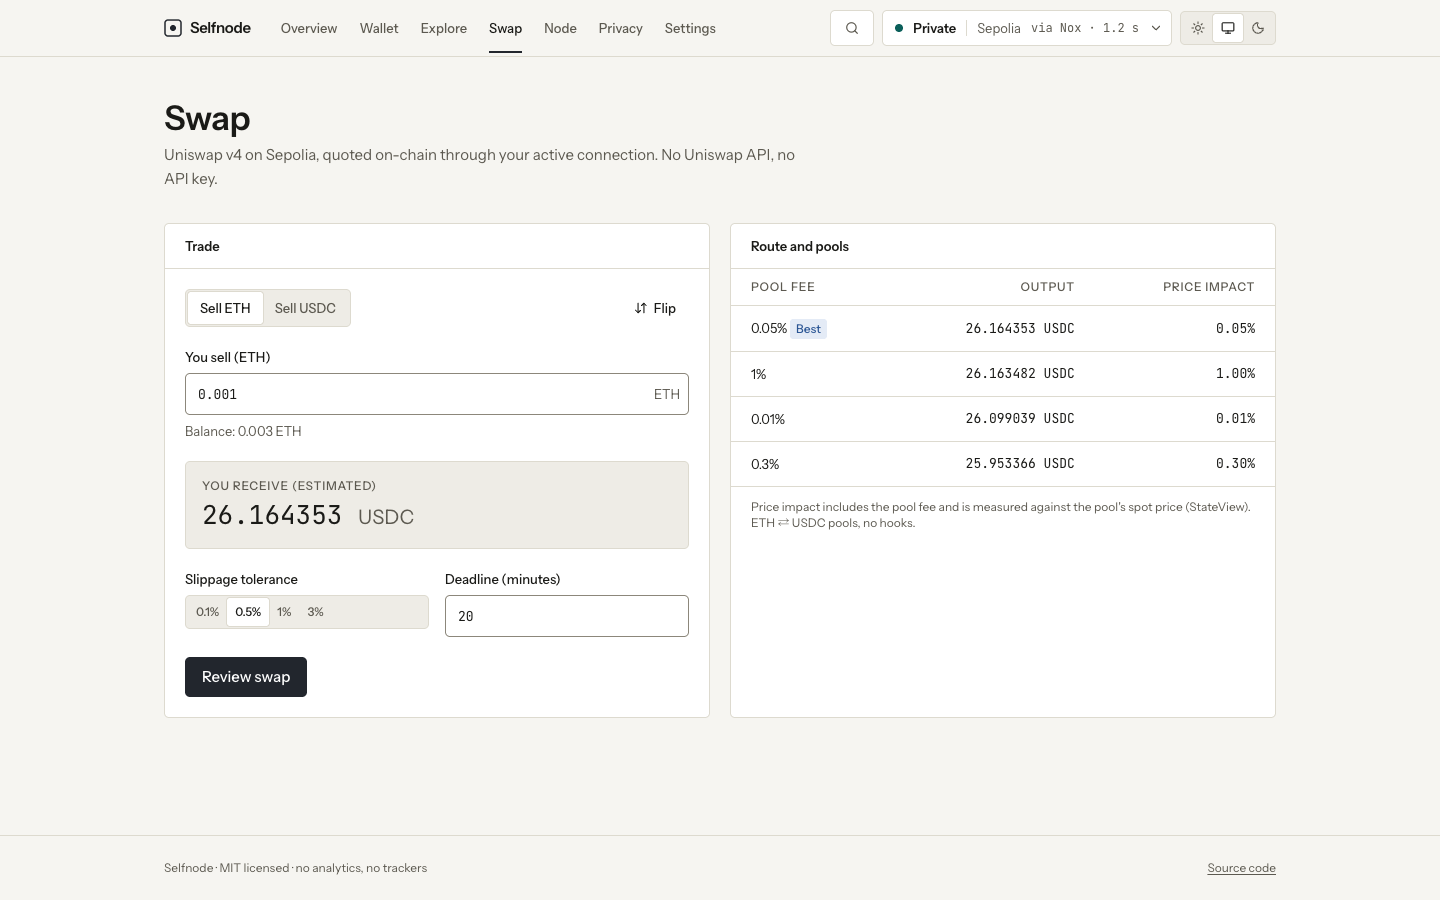
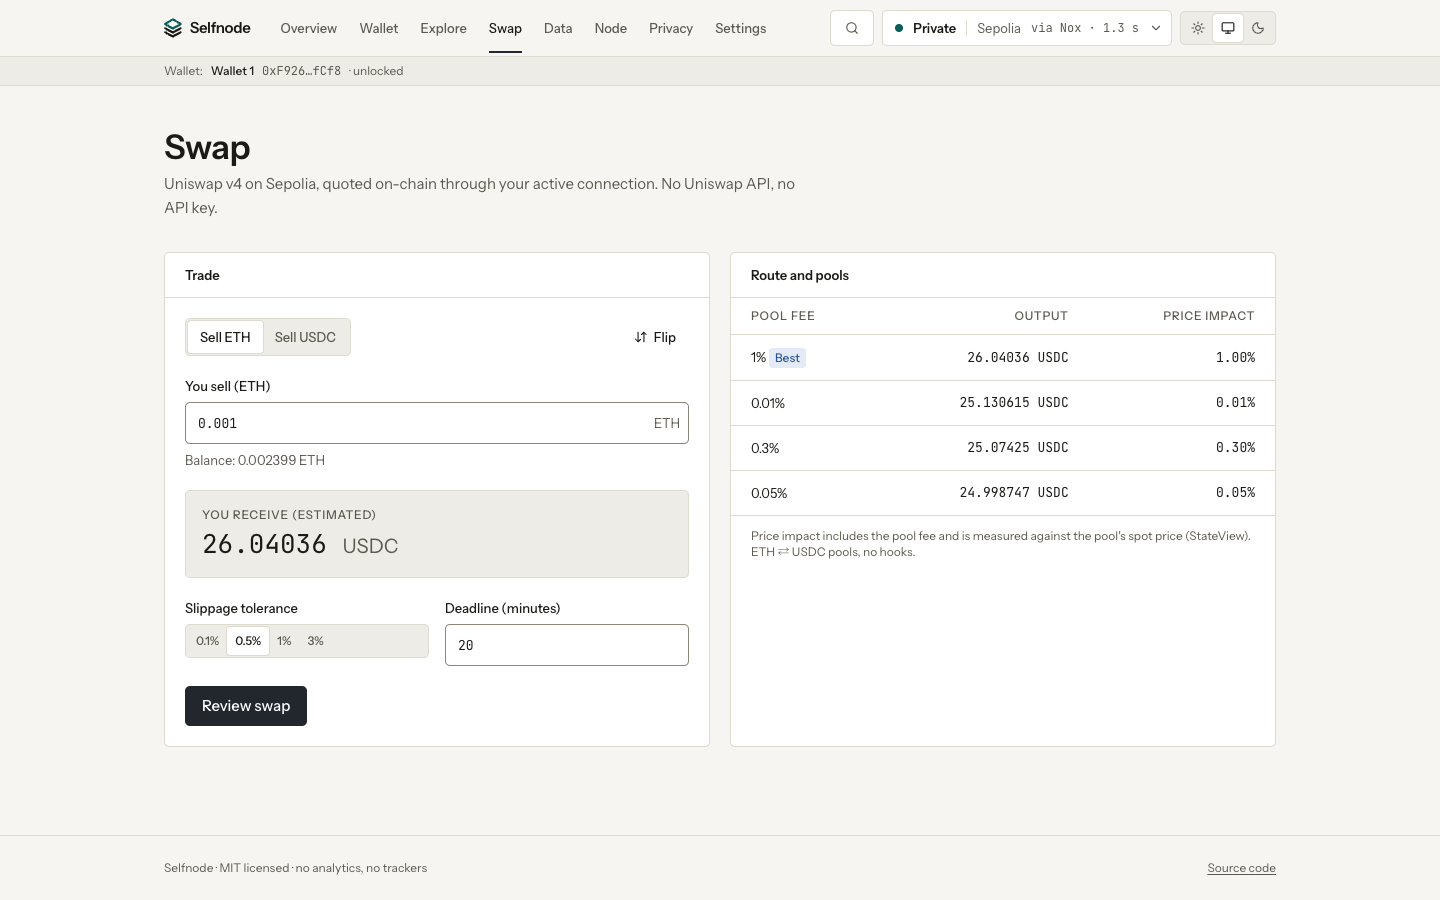
docs: submission screenshots, retaken README screenshots, demo script for tonight's features
docs/submission/: six images from the live site (Explore latest blocks and transactions, Wallet send preview with the Swap button, Uniswap v4 quote, a decoded transaction, the Data page, the Privacy report), 2560 px wide. docs/screenshots/: all 16 retaken (new logo, active-wallet bar, Swap button). DEMO_SCRIPT.md: Explore tables, multiple wallets, Swap from the wallet, the Data page, failover, the daily refresh.

diff --git a/README.md b/README.md
@@ -27,8 +27,11 @@ Live site, Private mode (every request through Nox), Sepolia.
   <img src="docs/screenshots/transaction-dark-mobile.png" width="190" alt="Decoded transaction on a phone, dark theme, with the function name from Arkiv">
 </p>
 
+![Explore: live latest blocks and transactions, methods decoded from Arkiv](docs/submission/1-explore-latest-blocks-and-transactions.png)
+
 All 16 (overview, wallet, swap and a decoded transaction; light and dark;
-desktop and mobile) are in [`docs/screenshots/`](docs/screenshots/).
+desktop and mobile) are in [`docs/screenshots/`](docs/screenshots/), and the six
+submission images in [`docs/submission/`](docs/submission/).
 
 ## What works today
 
